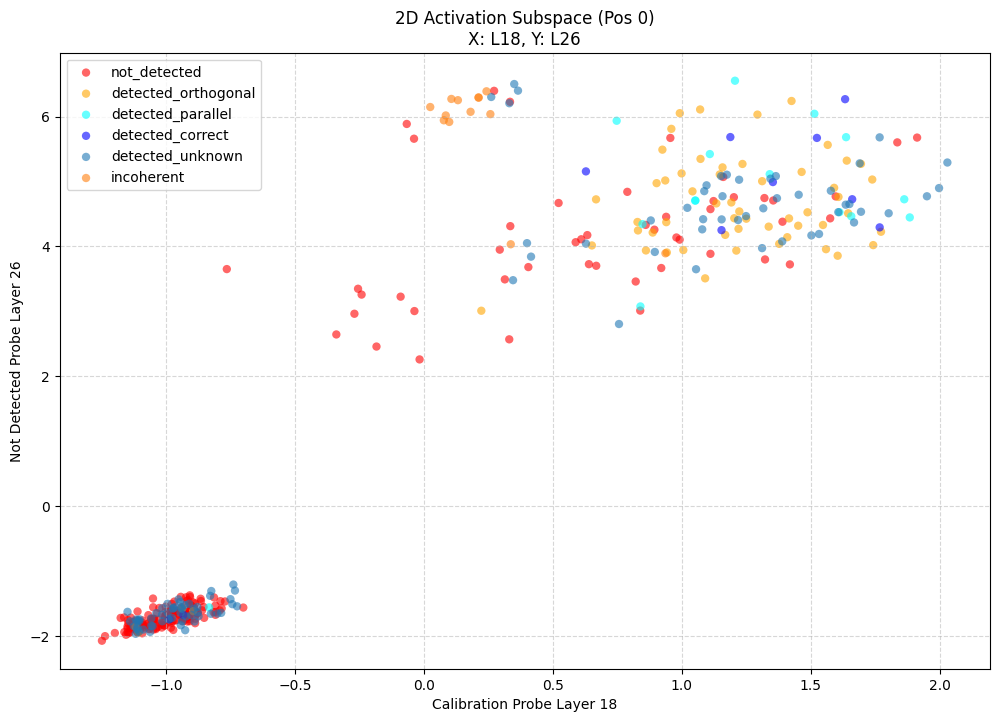
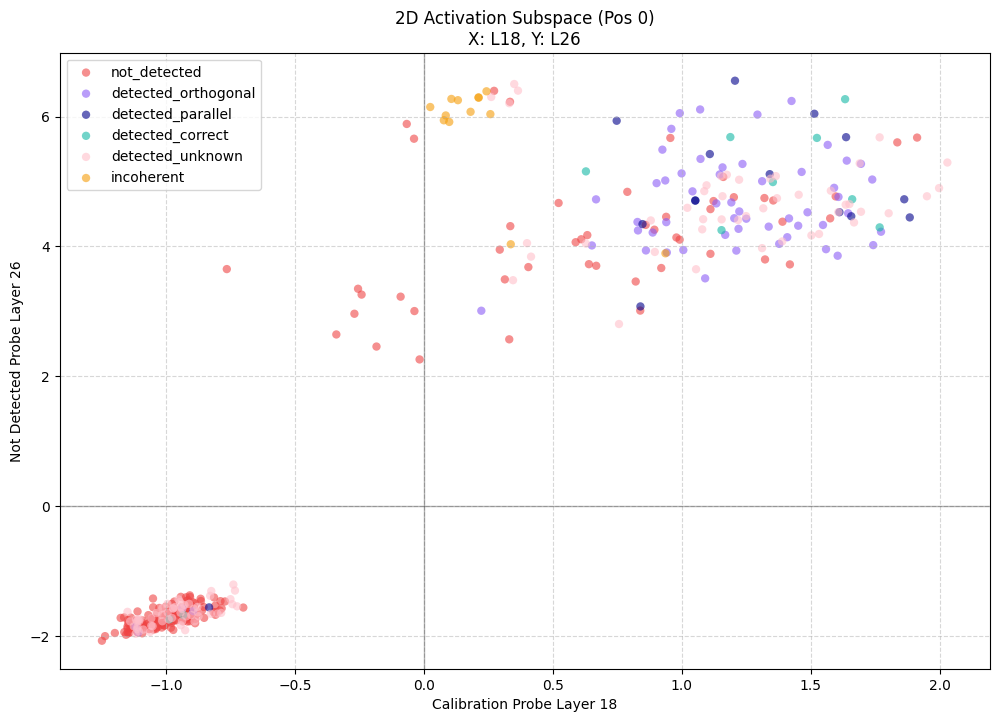
fixed plot

diff --git a/linear_probe/validation/probe_2D_axis.py b/linear_probe/validation/probe_2D_axis.py
@@ -204,13 +204,15 @@ def main():
     
     plt.figure(figsize=(12, 8))
     
-    # Define colors for common categories
+    # Define curated colors for categories
     category_colors = {
-        "not_detected": "red",
-        "detected_correct": "blue",
-        "calibration_correct": "green",
-        "detected_parallel": "cyan",
-        "detected_orthogonal": "orange"
+        "not_detected": "#EF4444",        # Vibrant Red
+        "detected_parallel": "#00008B",     # Darker Blue (Requested Change)
+        "calibration_correct": "#10B981",  # Vibrant Green
+        "detected_correct": "#14B8A6",    # Teal/Cyan
+        "detected_orthogonal": "#8B5CF6",  # Vibrant Purple
+        "detected_unknown": "#FFC0CB",     # Slate/Grey
+        "incoherent": "#F59E0B"            # Amber/Orange
     }
 
     for category, info in category_info.items():
@@ -239,6 +241,8 @@ def main():
 
     plt.xlabel(get_pretty_probe_name(resolved_p1, layer1))
     plt.ylabel(get_pretty_probe_name(resolved_p2, layer2))
+    plt.axvline(x=0, color='black', linestyle='-', linewidth=1.0, alpha=0.3)
+    plt.axhline(y=0, color='black', linestyle='-', linewidth=1.0, alpha=0.3)
     plt.title(f"2D Activation Subspace (Pos {args.position})\nX: L{layer1}, Y: L{layer2}")
     plt.legend()
     plt.grid(True, linestyle='--', alpha=0.5)
